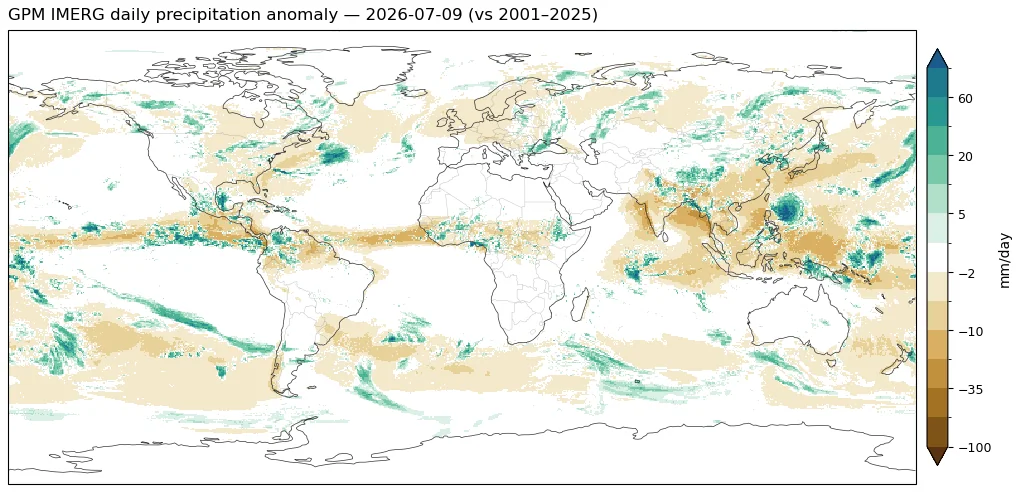
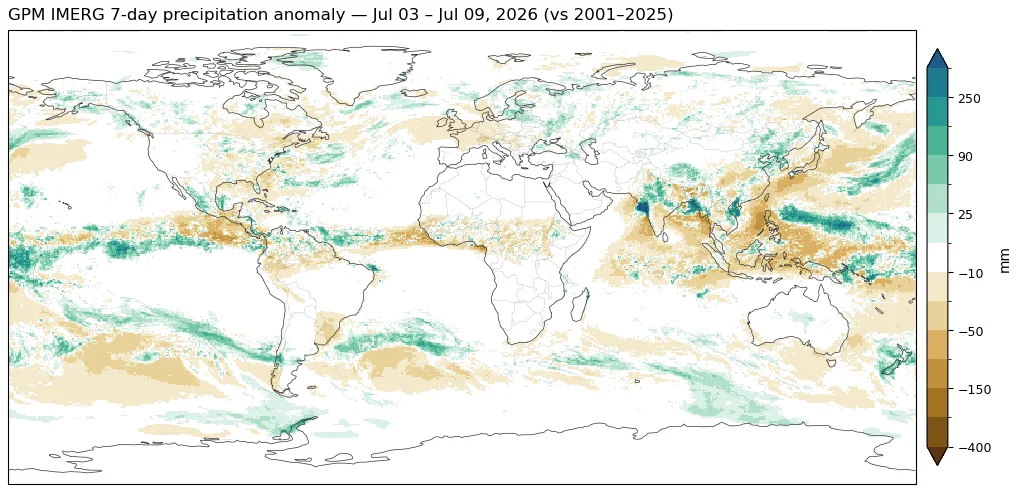
Climate monitor: 7-day IMERG accumulation anomaly as headline precip map
A single day vs the (deliberately smooth) daily climatology mostly
repaints the mean rain belts dry, since daily precip is intermittent -
the 7-day accumulation shows synoptic-scale signals instead. Daily map
kept as companion with the caveat explained on the page. Recent global
daily grids now cached per-date (~1MB each).

diff --git a/climate.html b/climate.html
@@ -112,9 +112,13 @@
 
   <div class="card">
     <h2>Daily precipitation anomaly</h2>
-    <p class="note">GPM IMERG (Early run) daily precipitation departure from the satellite's own
-    2001–2025 climatology, at 0.5° — teal wetter than normal, brown drier.</p>
-    <img id="img-precip" alt="GPM IMERG daily precipitation anomaly map">
+    <p class="note">GPM IMERG (Early run) departures from the satellite's own 2001–2025 climatology
+    at 0.5° — teal wetter than normal, brown drier. The 7-day accumulation (top) is the headline:
+    daily rainfall is intermittent, so a single day measured against a smooth climatology mostly
+    repaints the mean rain belts dry — visible in the daily companion below, where brown traces the
+    ITCZ and monsoon regions that simply didn't rain that particular day.</p>
+    <img id="img-precip" alt="GPM IMERG 7-day precipitation anomaly map">
+    <img id="img-precip-daily" style="margin-top:10px" alt="GPM IMERG daily precipitation anomaly map">
   </div>
 
   <footer>
@@ -212,6 +216,9 @@ fetch("assets/climate/manifest.json?t=" + Date.now())
     for (const k of ["t2m", "z500", "mslp"])
       document.getElementById("img-" + k).src = `assets/climate/${k}_anom.webp?v=${v}`;
     document.getElementById("img-precip").src = `assets/climate/precip_anom.webp?v=${v}`;
+    const pd = document.getElementById("img-precip-daily");
+    pd.src = `assets/climate/precip_anom_daily.webp?v=${v}`;
+    pd.onerror = () => pd.remove();
     document.getElementById("stamp").textContent =
       `ERA5 valid ${m.era5_day || "—"} · IMERG valid ${m.imerg_day || "—"} · generated ${m.generated}`;
     const tele = document.getElementById("img-tele");

diff --git a/scripts/climate/climate_monitor.py b/scripts/climate/climate_monitor.py
@@ -380,40 +380,78 @@ def run_monthly() -> list:
 
 
 # ── IMERG ────────────────────────────────────────────────────────────────────
-def run_imerg() -> str | None:
-    clim_p = HERE / "imerg_clim_global.nc"
-    if not clim_p.exists():
-        print(f"  {clim_p.name} missing — run build_imerg_clim_global.py first", flush=True)
-        return None
-    cds = xr.open_dataset(clim_p)
+IMERG_STORE = DATA / "imerg_global"          # per-day strided global grids (~1 MB each)
+
+
+def _imerg_recent_days(n: int = 10) -> dict:
+    """Ensure the last n IMERG Early daily global 0.5° grids are cached; return
+    {YYYYMMDD: (lat, lon) mm/day} for the days available."""
     from imerg_precip import _login
     from build_imerg_clim_global import _opendap_url, _fetch_day
     import earthaccess
     _login()
+    IMERG_STORE.mkdir(parents=True, exist_ok=True)
     now = datetime.now(timezone.utc)
     gs = earthaccess.search_data(short_name="GPM_3IMERGDE", version="07",
-                                 temporal=(f"{now - timedelta(days=6):%Y-%m-%d}",
+                                 temporal=(f"{now - timedelta(days=n + 2):%Y-%m-%d}",
                                            f"{now:%Y-%m-%d}"))
-    if not gs:
-        print("  no recent IMERG Early daily granules found", flush=True)
-        return None
     by_day = {}
     for g in gs:
         url = _opendap_url(g)
         if url:
             by_day[url.split(".3IMERG.")[1][:8]] = url
-    ymd = sorted(by_day)[-1]
-    day = pd.Timestamp(f"{ymd[:4]}-{ymd[4:6]}-{ymd[6:]}")
-    sess = earthaccess.get_requests_https_session()
-    _, grid = _fetch_day((by_day[ymd], 1, sess))
-    if grid is None:
-        print("  IMERG fetch failed", flush=True)
+    sess = None
+    out = {}
+    for ymd, url in sorted(by_day.items())[-n:]:
+        p = IMERG_STORE / f"{ymd}.npy"
+        if not p.exists():
+            if sess is None:
+                sess = earthaccess.get_requests_https_session()
+            _, grid = _fetch_day((url, 1, sess))
+            if grid is None:
+                continue
+            np.save(p, grid.astype("float32"))
+        out[ymd] = np.load(p)
+    for old in IMERG_STORE.glob("*.npy"):                    # prune beyond ~2n
+        if old.stem not in by_day and len(list(IMERG_STORE.glob("*.npy"))) > 2 * n:
+            old.unlink()
+    return out
+
+
+def run_imerg() -> str | None:
+    """7-day accumulation anomaly (primary — daily precip is intermittent, so a
+    one-day anomaly vs the smooth climatology mostly repaints the mean rain
+    belts) plus the single-day anomaly as a companion."""
+    clim_p = HERE / "imerg_clim_global.nc"
+    if not clim_p.exists():
+        print(f"  {clim_p.name} missing — run build_imerg_clim_global.py first", flush=True)
         return None
-    anom = grid - eval_clim(cds["coef"].values, doy365(day))
-    render_global(anom, cds.lat.values, cds.lon.values,
+    cds = xr.open_dataset(clim_p)
+    coef = cds["coef"].values
+    days = _imerg_recent_days(10)
+    if not days:
+        print("  no recent IMERG Early daily granules found", flush=True)
+        return None
+    ymds = sorted(days)
+    day = pd.Timestamp(f"{ymds[-1][:4]}-{ymds[-1][4:6]}-{ymds[-1][6:]}")
+
+    anom1 = days[ymds[-1]] - eval_clim(coef, doy365(day))
+    render_global(anom1, cds.lat.values, cds.lon.values,
                   f"GPM IMERG daily precipitation anomaly — {day:%Y-%m-%d} (vs 2001–2025)",
-                  "mm/day", ASSETS / "precip_anom.webp",
+                  "mm/day", ASSETS / "precip_anom_daily.webp",
                   cmap=_PRC, levels=PRECIP_LEVELS)
+
+    last7 = ymds[-7:]
+    if len(last7) == 7:
+        tot = np.sum([days[k] for k in last7], axis=0)
+        ctot = np.sum([eval_clim(coef, doy365(day - pd.Timedelta(days=k)))
+                       for k in range(7)], axis=0)
+        d0 = pd.Timestamp(f"{last7[0][:4]}-{last7[0][4:6]}-{last7[0][6:]}")
+        render_global(tot - ctot, cds.lat.values, cds.lon.values,
+                      f"GPM IMERG 7-day precipitation anomaly — {d0:%b %d} – {day:%b %d, %Y} "
+                      "(vs 2001–2025)", "mm",
+                      ASSETS / "precip_anom.webp",
+                      cmap=_PRC, levels=[10, 25, 50, 90, 150, 250, 400])
     return f"{day:%Y-%m-%d}"
 
 
